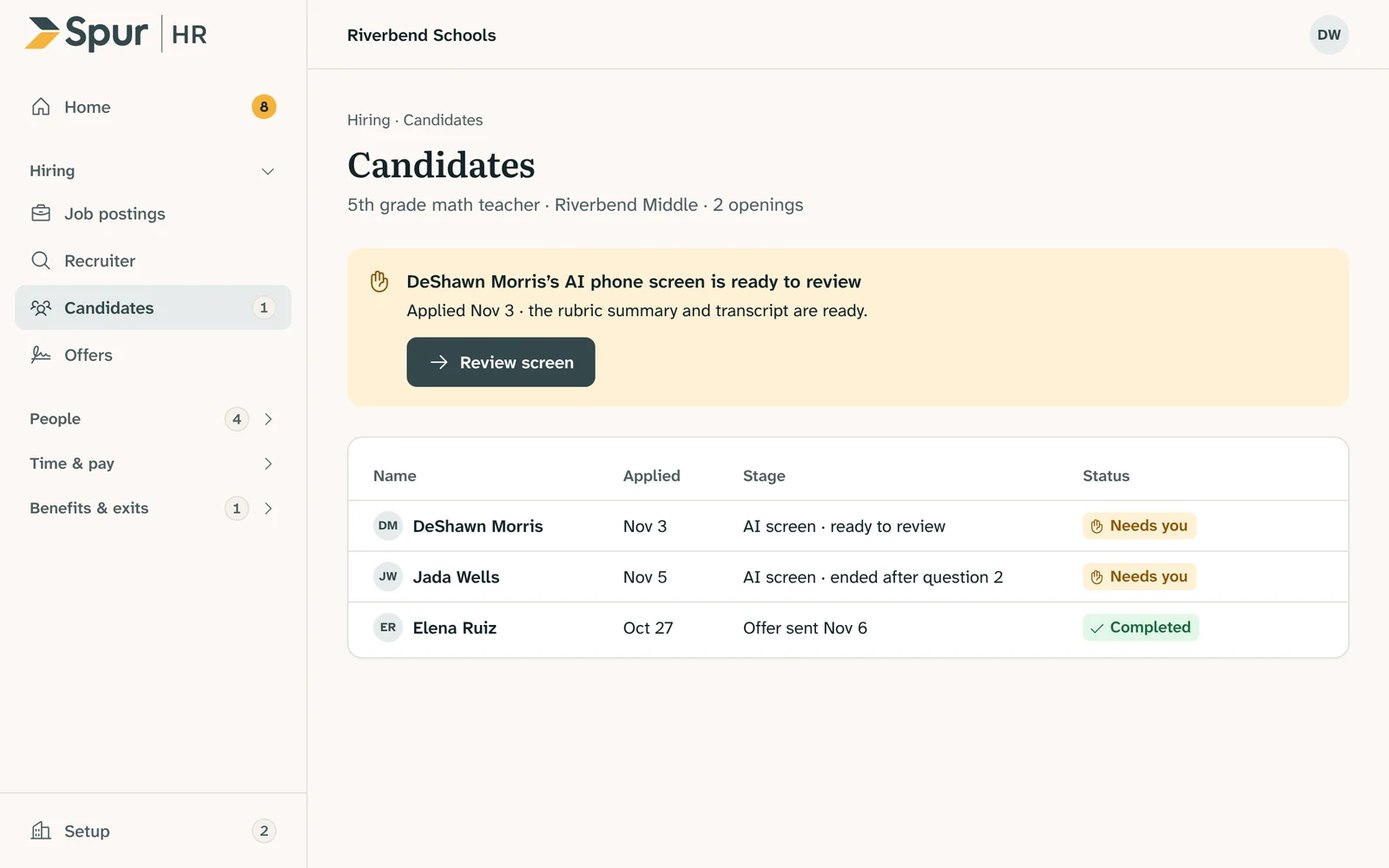
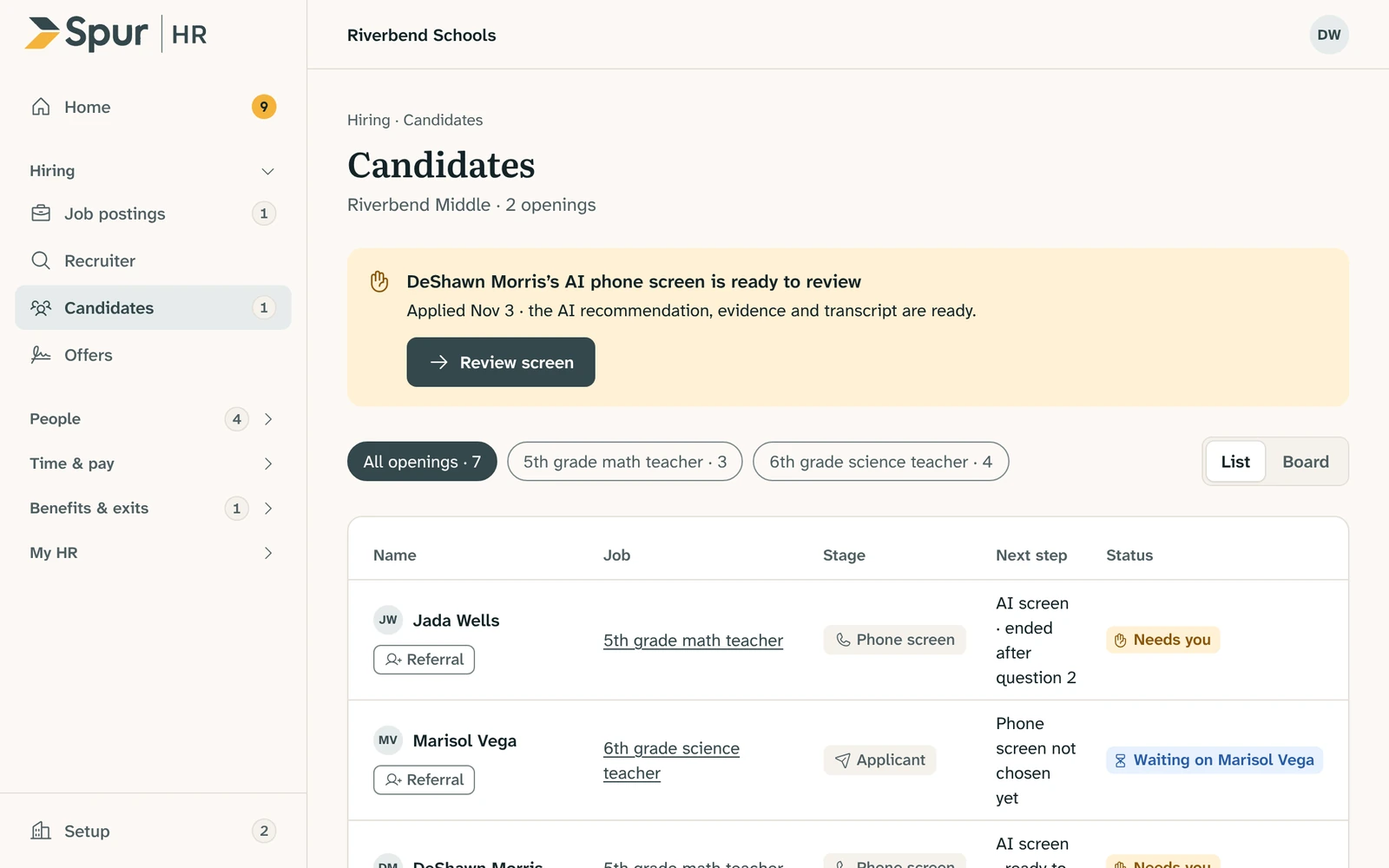
feat(site): recapture the Spur HR screenshots from the current prototype
Refs FLEET-3712.

- Recapture home, candidates, onboarding, coverage and performance in
  images/spurhr/ from a local build of the Spur HR sandbox at prototype
  version 1795469483-2c91, with the prototype tools hidden. Same treatment
  as before: home at a 1360x850 view, the others at 1120x700, scaled to
  1600x1000 WebP. Same subjects.
- capture-spurhr-screens.mjs keeps only the screen's own sidebar group
  open, so the top of the sidebar is never scrolled away, and parks the
  pointer on the top bar, so no table row shows a hover state.
- Alt text now describes what each new capture shows.
- The prototype still draws the old Spur logo (its design-system copy
  predates the new wordmark), so the two reviewer notes about the old logo
  stay, reworded to say so. The "What Spur AI handles" illustration and its
  note stay: the prototype has no such screen. The analytics section is
  unchanged.

Claude-Session: https://claude.ai/code/session_014ouAVauPK1oziiN6aka2na

diff --git a/hr.html b/hr.html
@@ -36,13 +36,13 @@
       </nav>
     </div>
   </header>
-  <main id="main"><section class="hr-top"><div class="shell"><div class="hr-top-copy"><span class="eyebrow">Spur&nbsp;HR</span><h1>Schools buy HR software. <span class="hl">Then hire people to run it.</span></h1><p class="lede">Spur&nbsp;HR is the HR system that does the work. It handles recruiting, HR records, payroll and performance management like a capable member of your team. Your people make the call.</p><div class="hero-actions"><a class="button signal" href="hr-tour.html">Take the self-guided tour →</a><a class="button ghost" href="hr-tour.html#demo">Request a demo</a></div><p class="release-line">First release <span class="tag jan">January 2027</span> More in <span class="tag apr">April 2027</span></p></div><figure class="shot"><div class="shot-bar" aria-hidden="true"><i></i><i></i><i></i></div><img src="images/spurhr/home.webp" alt="Spur HR home screen for a network HR director. A list titled Waiting on you shows eight items, each with a status and an Open button." width="1600" height="1000" fetchpriority="high"><figcaption>Home, from the Spur&nbsp;HR prototype. Sample data.</figcaption></figure></div></section>
+  <main id="main"><section class="hr-top"><div class="shell"><div class="hr-top-copy"><span class="eyebrow">Spur&nbsp;HR</span><h1>Schools buy HR software. <span class="hl">Then hire people to run it.</span></h1><p class="lede">Spur&nbsp;HR is the HR system that does the work. It handles recruiting, HR records, payroll and performance management like a capable member of your team. Your people make the call.</p><div class="hero-actions"><a class="button signal" href="hr-tour.html">Take the self-guided tour →</a><a class="button ghost" href="hr-tour.html#demo">Request a demo</a></div><p class="release-line">First release <span class="tag jan">January 2027</span> More in <span class="tag apr">April 2027</span></p></div><figure class="shot"><div class="shot-bar" aria-hidden="true"><i></i><i></i><i></i></div><img src="images/spurhr/home.webp" alt="Spur HR home screen for a network HR director. Under Waiting on you, the first five of nine items each show a status and an Open button, below sort and filter controls." width="1600" height="1000" fetchpriority="high"><figcaption>Home, from the Spur&nbsp;HR prototype. Sample data.</figcaption></figure></div></section>
 
   <section class="section problem"><div class="shell problem-grid"><div><span class="eyebrow">The real cost of HR software</span><h2>The software was never <span class="serif">the hard part.</span></h2><p class="lede">A school buys four systems. Then someone on staff spends their week moving information among them and chasing people for the rest.</p></div><div class="stack" aria-label="What schools buy, and the staff work that comes with it"><div class="stack-col"><p class="stack-label">What schools buy</p><span class="chip solid">Applicant tracking</span><span class="chip solid">HR records</span><span class="chip solid">Payroll</span><span class="chip solid">Performance management</span></div><div class="stack-col"><p class="stack-label">What it still takes</p><span class="chip chore">Retype the new hire</span><span class="chip chore">Chase signatures</span><span class="chip chore">Check licenses</span><span class="chip chore">Fix timesheets</span><span class="chip chore">Re-enter it in payroll</span><span class="chip chore">Answer the same question again</span><span class="chip staff">Staff time to run it all</span></div></div></div><div class="shell"><p class="turn">Spur&nbsp;HR does that work. <span class="serif">You make the call.</span></p></div></section>
 
-  <section class="section feature paper"><div class="shell feature-grid"><div class="feature-copy"><span class="eyebrow">Your new HR team member</span><h2>It works like a recruiter and an HR generalist <span class="serif">on your team.</span></h2><p class="lede">Spur&nbsp;HR drafts, screens, schedules and follows up. The work arrives finished and ready for your review, the way it would from a strong hire.</p><ul class="checks"><li>Writes the job posting from your notes and your template</li><li>Screens every application against your criteria and shows its reasons</li><li>Runs an optional phone screen and hands you the summary and transcript</li></ul><p class="release-line"><span class="tag jan">January 2027</span></p></div><figure class="shot"><div class="shot-bar" aria-hidden="true"><i></i><i></i><i></i></div><img src="images/spurhr/candidates.webp" alt="Spur HR candidates screen. A banner says a candidate’s AI phone screen is ready to review, above a list of applicants and their status." width="1600" height="1000" loading="lazy"><figcaption>Candidates, from the Spur&nbsp;HR prototype. Sample data.</figcaption></figure></div></section>
-  <section class="section feature flip"><div class="shell feature-grid"><div class="feature-copy"><span class="eyebrow">You supervise</span><h2>It runs itself. You supervise <span class="serif">and approve.</span></h2><p class="lede">Spur&nbsp;HR never approves, rejects, publishes or pays. It brings each decision to the right person with what they need to make it. Managing it feels like managing a great HR hire.</p><ul class="checks"><li>One list of what is waiting on you, across every school</li><li>Every decision carries the name of the person who made it</li><li>Every step also works by hand</li></ul><blockquote class="pull">Let the computers do the clerical work, so you can do the thinking work.</blockquote><p class="release-line"><span class="tag jan">January 2027</span></p></div><figure class="shot"><div class="shot-bar" aria-hidden="true"><i></i><i></i><i></i></div><img src="images/spurhr/onboarding.webp" alt="Spur HR onboarding screen. Two clearance decisions wait for the HR director, above clearance status and credentials that expire soon." width="1600" height="1000" loading="lazy"><figcaption>Onboarding, from the Spur&nbsp;HR prototype. Sample data.</figcaption></figure></div></section>
-  <section class="section feature paper"><div class="shell feature-grid"><div class="feature-copy"><span class="eyebrow">Built for schools</span><h2>Built for how <span class="serif">schools run.</span></h2><p class="lede">Generic HR platforms are built for offices. Schools run on campuses, credentials, school-year calendars and bell schedules. In Spur&nbsp;HR those are part of the design.</p><ul class="checks"><li>Networks with several campuses and legal employers</li><li>Licenses, endorsements, clearances and their expiry dates</li><li>Absences, substitutes and coverage, period by period</li></ul><p class="release-line"><span class="tag apr">April 2027</span></p></div><figure class="shot"><div class="shot-bar" aria-hidden="true"><i></i><i></i><i></i></div><img src="images/spurhr/coverage.webp" alt="Spur HR coverage screen. A teacher is out today and each class period shows who has been offered the coverage." width="1600" height="1000" loading="lazy"><figcaption>Coverage, from the Spur&nbsp;HR prototype. Sample data.</figcaption></figure></div></section>
+  <section class="section feature paper"><div class="shell feature-grid"><div class="feature-copy"><span class="eyebrow">Your new HR team member</span><h2>It works like a recruiter and an HR generalist <span class="serif">on your team.</span></h2><p class="lede">Spur&nbsp;HR drafts, screens, schedules and follows up. The work arrives finished and ready for your review, the way it would from a strong hire.</p><ul class="checks"><li>Writes the job posting from your notes and your template</li><li>Screens every application against your criteria and shows its reasons</li><li>Runs an optional phone screen and hands you the summary and transcript</li></ul><p class="release-line"><span class="tag jan">January 2027</span></p></div><figure class="shot"><div class="shot-bar" aria-hidden="true"><i></i><i></i><i></i></div><img src="images/spurhr/candidates.webp" alt="Spur HR candidates screen. A banner says a candidate’s AI phone screen is ready to review, above a filter for each opening and a list of candidates with their job, stage, next step and status." width="1600" height="1000" loading="lazy"><figcaption>Candidates, from the Spur&nbsp;HR prototype. Sample data.</figcaption></figure></div></section>
+  <section class="section feature flip"><div class="shell feature-grid"><div class="feature-copy"><span class="eyebrow">You supervise</span><h2>It runs itself. You supervise <span class="serif">and approve.</span></h2><p class="lede">Spur&nbsp;HR never approves, rejects, publishes or pays. It brings each decision to the right person with what they need to make it. Managing it feels like managing a great HR hire.</p><ul class="checks"><li>One list of what is waiting on you, across every school</li><li>Every decision carries the name of the person who made it</li><li>Every step also works by hand</li></ul><blockquote class="pull">Let the computers do the clerical work, so you can do the thinking work.</blockquote><p class="release-line"><span class="tag jan">January 2027</span></p></div><figure class="shot"><div class="shot-bar" aria-hidden="true"><i></i><i></i><i></i></div><img src="images/spurhr/onboarding.webp" alt="Spur HR onboarding screen. Two clearance decisions wait for the HR director, above a table of each candidate’s clearance, assignment and onboarding status." width="1600" height="1000" loading="lazy"><figcaption>Onboarding, from the Spur&nbsp;HR prototype. Sample data.</figcaption></figure></div></section>
+  <section class="section feature paper"><div class="shell feature-grid"><div class="feature-copy"><span class="eyebrow">Built for schools</span><h2>Built for how <span class="serif">schools run.</span></h2><p class="lede">Generic HR platforms are built for offices. Schools run on campuses, credentials, school-year calendars and bell schedules. In Spur&nbsp;HR those are part of the design.</p><ul class="checks"><li>Networks with several campuses and legal employers</li><li>Licenses, endorsements, clearances and their expiry dates</li><li>Absences, substitutes and coverage, period by period</li></ul><p class="release-line"><span class="tag apr">April 2027</span></p></div><figure class="shot"><div class="shot-bar" aria-hidden="true"><i></i><i></i><i></i></div><img src="images/spurhr/coverage.webp" alt="Spur HR coverage screen. A teacher is out today. Her day is laid out period by period, and each block shows that it has been offered to the substitute pool and no one has taken it yet." width="1600" height="1000" loading="lazy"><figcaption>Coverage, from the Spur&nbsp;HR prototype. Sample data.</figcaption></figure></div></section>
 
   <section class="section controls"><div class="shell controls-grid"><div><span class="eyebrow">You stay in control</span><h2>You decide what AI handles. <span class="serif">Function by function.</span></h2><p class="lede">Turn AI on or off for each kind of work. Have it write job descriptions but leave interviews to your team. Turn all of it on, and HR runs itself under your supervision.</p></div><figure class="panel" style="margin:0" aria-label="Illustration of the AI settings screen"><div class="panel-head"><strong>What Spur AI handles</strong><span>4 of 5 on</span></div><ul class="switch-list"><li>Write job descriptions<span class="switch-state">On</span><span class="switch on" aria-hidden="true"></span></li><li>Screen applications<span class="switch-state">On</span><span class="switch on" aria-hidden="true"></span></li><li>Conduct first-round interviews<span class="switch-state">Off</span><span class="switch" aria-hidden="true"></span></li><li>Run onboarding paperwork<span class="switch-state">On</span><span class="switch on" aria-hidden="true"></span></li><li>Answer staff HR questions<span class="switch-state">On</span><span class="switch on" aria-hidden="true"></span></li></ul><figcaption class="panel-foot caption">Illustration. A named person still approves what matters.</figcaption></figure></div></section>
 

diff --git a/build-spur-hr.js b/build-spur-hr.js
@@ -36,7 +36,7 @@ module.exports = function buildSpurHr({ page, note, plain, STAGING, STAFFING_URL
       copy: 'Spur&nbsp;HR drafts, screens, schedules and follows up. The work arrives finished and ready for your review, the way it would from a strong hire.',
       points: ['Writes the job posting from your notes and your template', 'Screens every application against your criteria and shows its reasons', 'Runs an optional phone screen and hands you the summary and transcript'],
       tag: tagJan,
-      shot: shot('candidates', 'Spur&nbsp;HR candidates screen. A banner says a candidate’s AI phone screen is ready to review, above a list of applicants and their status.', 'Candidates, from the Spur&nbsp;HR prototype. Sample data.')
+      shot: shot('candidates', 'Spur&nbsp;HR candidates screen. A banner says a candidate’s AI phone screen is ready to review, above a filter for each opening and a list of candidates with their job, stage, next step and status.', 'Candidates, from the Spur&nbsp;HR prototype. Sample data.')
     },
     {
       eyebrow: 'You supervise',
@@ -45,7 +45,7 @@ module.exports = function buildSpurHr({ page, note, plain, STAGING, STAFFING_URL
       points: ['One list of what is waiting on you, across every school', 'Every decision carries the name of the person who made it', 'Every step also works by hand'],
       quote: 'Let the computers do the clerical work, so you can do the thinking work.',
       tag: tagJan,
-      shot: shot('onboarding', 'Spur&nbsp;HR onboarding screen. Two clearance decisions wait for the HR director, above clearance status and credentials that expire soon.', 'Onboarding, from the Spur&nbsp;HR prototype. Sample data.')
+      shot: shot('onboarding', 'Spur&nbsp;HR onboarding screen. Two clearance decisions wait for the HR director, above a table of each candidate’s clearance, assignment and onboarding status.', 'Onboarding, from the Spur&nbsp;HR prototype. Sample data.')
     },
     {
       eyebrow: 'Built for schools',
@@ -53,7 +53,7 @@ module.exports = function buildSpurHr({ page, note, plain, STAGING, STAFFING_URL
       copy: 'Generic HR platforms are built for offices. Schools run on campuses, credentials, school-year calendars and bell schedules. In Spur&nbsp;HR those are part of the design.',
       points: ['Networks with several campuses and legal employers', 'Licenses, endorsements, clearances and their expiry dates', 'Absences, substitutes and coverage, period by period'],
       tag: tagApr,
-      shot: shot('coverage', 'Spur&nbsp;HR coverage screen. A teacher is out today and each class period shows who has been offered the coverage.', 'Coverage, from the Spur&nbsp;HR prototype. Sample data.')
+      shot: shot('coverage', 'Spur&nbsp;HR coverage screen. A teacher is out today. Her day is laid out period by period, and each block shows that it has been offered to the substitute pool and no one has taken it yet.', 'Coverage, from the Spur&nbsp;HR prototype. Sample data.')
     }
   ];
 
@@ -118,7 +118,7 @@ module.exports = function buildSpurHr({ page, note, plain, STAGING, STAFFING_URL
     title: 'Spur&nbsp;HR | The HR system that does the work',
     description: 'Schools buy HR software, then hire people to run it. Spur&nbsp;HR does the work: recruiting, HR records, payroll and performance management in one system. Your people make the call.',
     current: 'hr', canonical: 'hr.html', product: 'hr',
-    body: `<section class="hr-top"><div class="shell"><div class="hr-top-copy"><span class="eyebrow">Spur&nbsp;HR</span><h1>Schools buy HR software. <span class="hl">Then hire people to run it.</span></h1><p class="lede">Spur&nbsp;HR is the HR system that does the work. It handles recruiting, HR records, payroll and performance management like a capable member of your team. Your people make the call.</p><div class="hero-actions"><a class="button signal" href="hr-tour.html">Take the self-guided tour →</a><a class="button ghost" href="hr-tour.html#demo">Request a demo</a></div><p class="release-line">First release ${tagJan} More in ${tagApr}</p>${note('The product screenshots on this page still show the old Spur logo. They will be recaptured from the final prototype.')}</div>${shot('home', 'Spur&nbsp;HR home screen for a network HR director. A list titled Waiting on you shows eight items, each with a status and an Open button.', 'Home, from the Spur&nbsp;HR prototype. Sample data.', true)}</div></section>
+    body: `<section class="hr-top"><div class="shell"><div class="hr-top-copy"><span class="eyebrow">Spur&nbsp;HR</span><h1>Schools buy HR software. <span class="hl">Then hire people to run it.</span></h1><p class="lede">Spur&nbsp;HR is the HR system that does the work. It handles recruiting, HR records, payroll and performance management like a capable member of your team. Your people make the call.</p><div class="hero-actions"><a class="button signal" href="hr-tour.html">Take the self-guided tour →</a><a class="button ghost" href="hr-tour.html#demo">Request a demo</a></div><p class="release-line">First release ${tagJan} More in ${tagApr}</p>${note('The product screenshots on this page were recaptured on November 23 from the current prototype. They still show the old Spur logo, because the prototype still uses it: its copy of the design system predates the new wordmark. Recapture them once the prototype takes in the new logo.')}</div>${shot('home', 'Spur&nbsp;HR home screen for a network HR director. Under Waiting on you, the first five of nine items each show a status and an Open button, below sort and filter controls.', 'Home, from the Spur&nbsp;HR prototype. Sample data.', true)}</div></section>
 
   <section class="section problem"><div class="shell problem-grid"><div><span class="eyebrow">The real cost of HR software</span><h2>The software was never <span class="serif">the hard part.</span></h2><p class="lede">A school buys four systems. Then someone on staff spends their week moving information among them and chasing people for the rest.</p></div><div class="stack" aria-label="What schools buy, and the staff work that comes with it"><div class="stack-col"><p class="stack-label">What schools buy</p>${bought.map(b => `<span class="chip solid">${b}</span>`).join('')}</div><div class="stack-col"><p class="stack-label">What it still takes</p>${chores.map(c => `<span class="chip chore">${c}</span>`).join('')}<span class="chip staff">Staff time to run it all</span></div></div></div><div class="shell"><p class="turn">Spur&nbsp;HR does that work. <span class="serif">You make the call.</span></p></div></section>
 

diff --git a/build-back-office.js b/build-back-office.js
@@ -140,7 +140,7 @@ function serviceCards() {
 const home = page({
   title: 'Spur | Spend less on the back office. Invest more in the classroom.',
   description: 'Spur builds software and services that take administrative work off school teams: Spur&nbsp;HR, the HR system that does the work, and Spur Staffing.',
-  body: `<section class="home-hero"><div class="shell home-hero-grid"><div class="home-hero-copy"><span class="eyebrow">Spur for schools</span><h1>Spend less on the back office. Invest more in <span class="serif">the classroom.</span></h1><p class="lede">Spur takes administrative work off school teams. We have staffed schools for more than a decade. Now Spur&nbsp;HR puts that experience into one HR system that does the work.</p><div class="hero-actions"><a class="button" href="hr.html">See Spur&nbsp;HR →</a><a class="button secondary" href="contact-sales.html">Talk to Spur</a></div>${note('The product screenshots still show the old Spur logo. They will be recaptured from the final prototype.')}</div><figure class="shot"><div class="shot-bar" aria-hidden="true"><i></i><i></i><i></i></div><img src="images/spurhr/home.webp" alt="Spur HR home screen for a network HR director. A list titled Waiting on you shows eight items, each with a status and an Open button." width="1600" height="1000" fetchpriority="high"><figcaption>Spur&nbsp;HR, from the prototype. Sample data.</figcaption></figure></div></section>
+  body: `<section class="home-hero"><div class="shell home-hero-grid"><div class="home-hero-copy"><span class="eyebrow">Spur for schools</span><h1>Spend less on the back office. Invest more in <span class="serif">the classroom.</span></h1><p class="lede">Spur takes administrative work off school teams. We have staffed schools for more than a decade. Now Spur&nbsp;HR puts that experience into one HR system that does the work.</p><div class="hero-actions"><a class="button" href="hr.html">See Spur&nbsp;HR →</a><a class="button secondary" href="contact-sales.html">Talk to Spur</a></div>${note('The product screenshot was recaptured on November 23 from the current prototype. It still shows the old Spur logo, because the prototype still uses it: its copy of the design system predates the new wordmark. Recapture it once the prototype takes in the new logo.')}</div><figure class="shot"><div class="shot-bar" aria-hidden="true"><i></i><i></i><i></i></div><img src="images/spurhr/home.webp" alt="Spur HR home screen for a network HR director. Under Waiting on you, the first five of nine items each show a status and an Open button, below sort and filter controls." width="1600" height="1000" fetchpriority="high"><figcaption>Spur&nbsp;HR, from the prototype. Sample data.</figcaption></figure></div></section>
   <section class="section paper" id="solutions"><div class="shell"><div class="section-head wide"><span class="eyebrow">Solutions</span><h2>One Spur. Pick the work you want <span class="serif">off your plate.</span></h2></div><div class="solution-list"><a class="solution lead" href="hr.html"><div class="solution-name"><span class="solution-kicker">HR and recruiting</span><img src="brand/spur-hr-logo.svg" alt="Spur HR" width="143" height="30"></div><p>The HR system that does the work. Recruiting, HR records, payroll and performance management in one place. Your people make the call.</p><span class="solution-meta"><span class="tag jan">First release January 2027</span><span class="card-link">See Spur&nbsp;HR →</span></span></a><a class="solution" href="${STAFFING_URL}" target="_blank" rel="noopener"><div class="solution-name"><span class="solution-kicker">Staffing</span><strong>Spur Staffing</strong></div><p>Substitute teachers and school support staff, recruited, screened, trained and paid by Spur.</p><span class="solution-meta"><span class="tag">Available now</span><span class="card-link">Visit spurstaffing.com ↗</span></span></a><a class="solution" href="finance-accounting.html"><div class="solution-name"><span class="solution-kicker">Finance and accounting</span><strong>Spur&nbsp;Finance</strong></div><p>Day-to-day accounting, monthly close and reporting your leaders can use.</p><span class="solution-meta"><span class="availability-badge">Coming soon</span><span class="card-link">See what’s coming →</span></span></a></div>${note('“More than a decade” is existing site copy, and Abigail’s note says 7+ years. Crystal to confirm the verified figure before launch. The page behind Spur&nbsp;Finance still says Finance & Accounting.')}</div></section>
   <section class="section navy" id="how-it-works"><div class="shell"><div class="section-head"><span class="eyebrow">Why schools work with Spur</span><h2>We know the work because we have <span class="serif">done the work.</span></h2></div><div class="promise-grid"><div class="promise-item"><h3>We understand schools</h3><p>We know the pace, pressure, and responsibility that come with serving educators.</p></div><div class="promise-item"><h3>We own the outcome</h3><p>We take responsibility for the work instead of adding more to your team.</p></div><div class="promise-item"><h3>We show up</h3><p>Responsive communication and reliable follow-through are part of the service.</p></div></div></div></section>
   <section class="cta-band"><div class="shell cta-grid"><div><h2>Let’s take something off your team’s plate.</h2><p>Tour Spur&nbsp;HR on your own, or tell us where the work is piling up.</p></div><div class="cta-actions"><a class="button light" href="hr-tour.html">Tour Spur&nbsp;HR →</a><a class="button secondary" href="contact-sales.html">Start a conversation</a></div></div></section>`

diff --git a/index.html b/index.html
@@ -36,7 +36,7 @@
       </nav>
     </div>
   </header>
-  <main id="main"><section class="home-hero"><div class="shell home-hero-grid"><div class="home-hero-copy"><span class="eyebrow">Spur for schools</span><h1>Spend less on the back office. Invest more in <span class="serif">the classroom.</span></h1><p class="lede">Spur takes administrative work off school teams. We have staffed schools for more than a decade. Now Spur&nbsp;HR puts that experience into one HR system that does the work.</p><div class="hero-actions"><a class="button" href="hr.html">See Spur&nbsp;HR →</a><a class="button secondary" href="contact-sales.html">Talk to Spur</a></div></div><figure class="shot"><div class="shot-bar" aria-hidden="true"><i></i><i></i><i></i></div><img src="images/spurhr/home.webp" alt="Spur HR home screen for a network HR director. A list titled Waiting on you shows eight items, each with a status and an Open button." width="1600" height="1000" fetchpriority="high"><figcaption>Spur&nbsp;HR, from the prototype. Sample data.</figcaption></figure></div></section>
+  <main id="main"><section class="home-hero"><div class="shell home-hero-grid"><div class="home-hero-copy"><span class="eyebrow">Spur for schools</span><h1>Spend less on the back office. Invest more in <span class="serif">the classroom.</span></h1><p class="lede">Spur takes administrative work off school teams. We have staffed schools for more than a decade. Now Spur&nbsp;HR puts that experience into one HR system that does the work.</p><div class="hero-actions"><a class="button" href="hr.html">See Spur&nbsp;HR →</a><a class="button secondary" href="contact-sales.html">Talk to Spur</a></div></div><figure class="shot"><div class="shot-bar" aria-hidden="true"><i></i><i></i><i></i></div><img src="images/spurhr/home.webp" alt="Spur HR home screen for a network HR director. Under Waiting on you, the first five of nine items each show a status and an Open button, below sort and filter controls." width="1600" height="1000" fetchpriority="high"><figcaption>Spur&nbsp;HR, from the prototype. Sample data.</figcaption></figure></div></section>
   <section class="section paper" id="solutions"><div class="shell"><div class="section-head wide"><span class="eyebrow">Solutions</span><h2>One Spur. Pick the work you want <span class="serif">off your plate.</span></h2></div><div class="solution-list"><a class="solution lead" href="hr.html"><div class="solution-name"><span class="solution-kicker">HR and recruiting</span><img src="brand/spur-hr-logo.svg" alt="Spur HR" width="143" height="30"></div><p>The HR system that does the work. Recruiting, HR records, payroll and performance management in one place. Your people make the call.</p><span class="solution-meta"><span class="tag jan">First release January 2027</span><span class="card-link">See Spur&nbsp;HR →</span></span></a><a class="solution" href="https://spurstaffing.com/" target="_blank" rel="noopener"><div class="solution-name"><span class="solution-kicker">Staffing</span><strong>Spur Staffing</strong></div><p>Substitute teachers and school support staff, recruited, screened, trained and paid by Spur.</p><span class="solution-meta"><span class="tag">Available now</span><span class="card-link">Visit spurstaffing.com ↗</span></span></a><a class="solution" href="finance-accounting.html"><div class="solution-name"><span class="solution-kicker">Finance and accounting</span><strong>Spur&nbsp;Finance</strong></div><p>Day-to-day accounting, monthly close and reporting your leaders can use.</p><span class="solution-meta"><span class="availability-badge">Coming soon</span><span class="card-link">See what’s coming →</span></span></a></div></div></section>
   <section class="section navy" id="how-it-works"><div class="shell"><div class="section-head"><span class="eyebrow">Why schools work with Spur</span><h2>We know the work because we have <span class="serif">done the work.</span></h2></div><div class="promise-grid"><div class="promise-item"><h3>We understand schools</h3><p>We know the pace, pressure, and responsibility that come with serving educators.</p></div><div class="promise-item"><h3>We own the outcome</h3><p>We take responsibility for the work instead of adding more to your team.</p></div><div class="promise-item"><h3>We show up</h3><p>Responsive communication and reliable follow-through are part of the service.</p></div></div></div></section>
   <section class="cta-band"><div class="shell cta-grid"><div><h2>Let’s take something off your team’s plate.</h2><p>Tour Spur&nbsp;HR on your own, or tell us where the work is piling up.</p></div><div class="cta-actions"><a class="button light" href="hr-tour.html">Tour Spur&nbsp;HR →</a><a class="button secondary" href="contact-sales.html">Start a conversation</a></div></div></section></main>

diff --git a/README.md b/README.md
@@ -25,7 +25,7 @@ answers with the relevant subject-matter owner before publishing.
 
 The generated pages use Spur's Homeroom design system: tokens and type in `css/back-office.css`, logos in `brand/` (Abigail’s resized Literata wordmark from November 20, 2026; the older `spur-logo.svg` in the repository root is still used by the blog and support pages), and self-hosted Literata and Atkinson Hyperlegible Next in `fonts/` (SIL Open Font License). The legal, support and worker-support pages still use the older `css/styles.css` look.
 
-Product screenshots in `images/spurhr/` are captured from the Spur HR prototype with `tools/capture-spurhr-screens.mjs` (serve a sandbox build locally, then run it; `VIEW=1120x700` gives larger UI for the screens shown beside text). Re-run it when the prototype changes.
+Product screenshots in `images/spurhr/` are captured from the Spur HR prototype with `tools/capture-spurhr-screens.mjs` (serve a sandbox build locally, then run it; `VIEW=1120x700` gives larger UI for the screens shown beside text). The site uses `home` at `VIEW=1360x850` and the other screens at `VIEW=1120x700`, each scaled to 1600×1000 and saved as WebP at quality 90. Re-run it when the prototype changes. The November 23 capture came from prototype version `1795469483-2c91`, which still draws the old Spur logo.
 
 `build-spur-hr.js` holds the Spur HR product page (`hr.html`) and the tour and demo page (`hr-tour.html`). Its content rules are at the top of the file: every release claim carries a date, illustrations and analytics samples say they use sample data, the price comes from the `pricing` object, and an FAQ entry with a `review` field is left off the public site until that field is removed.
 
